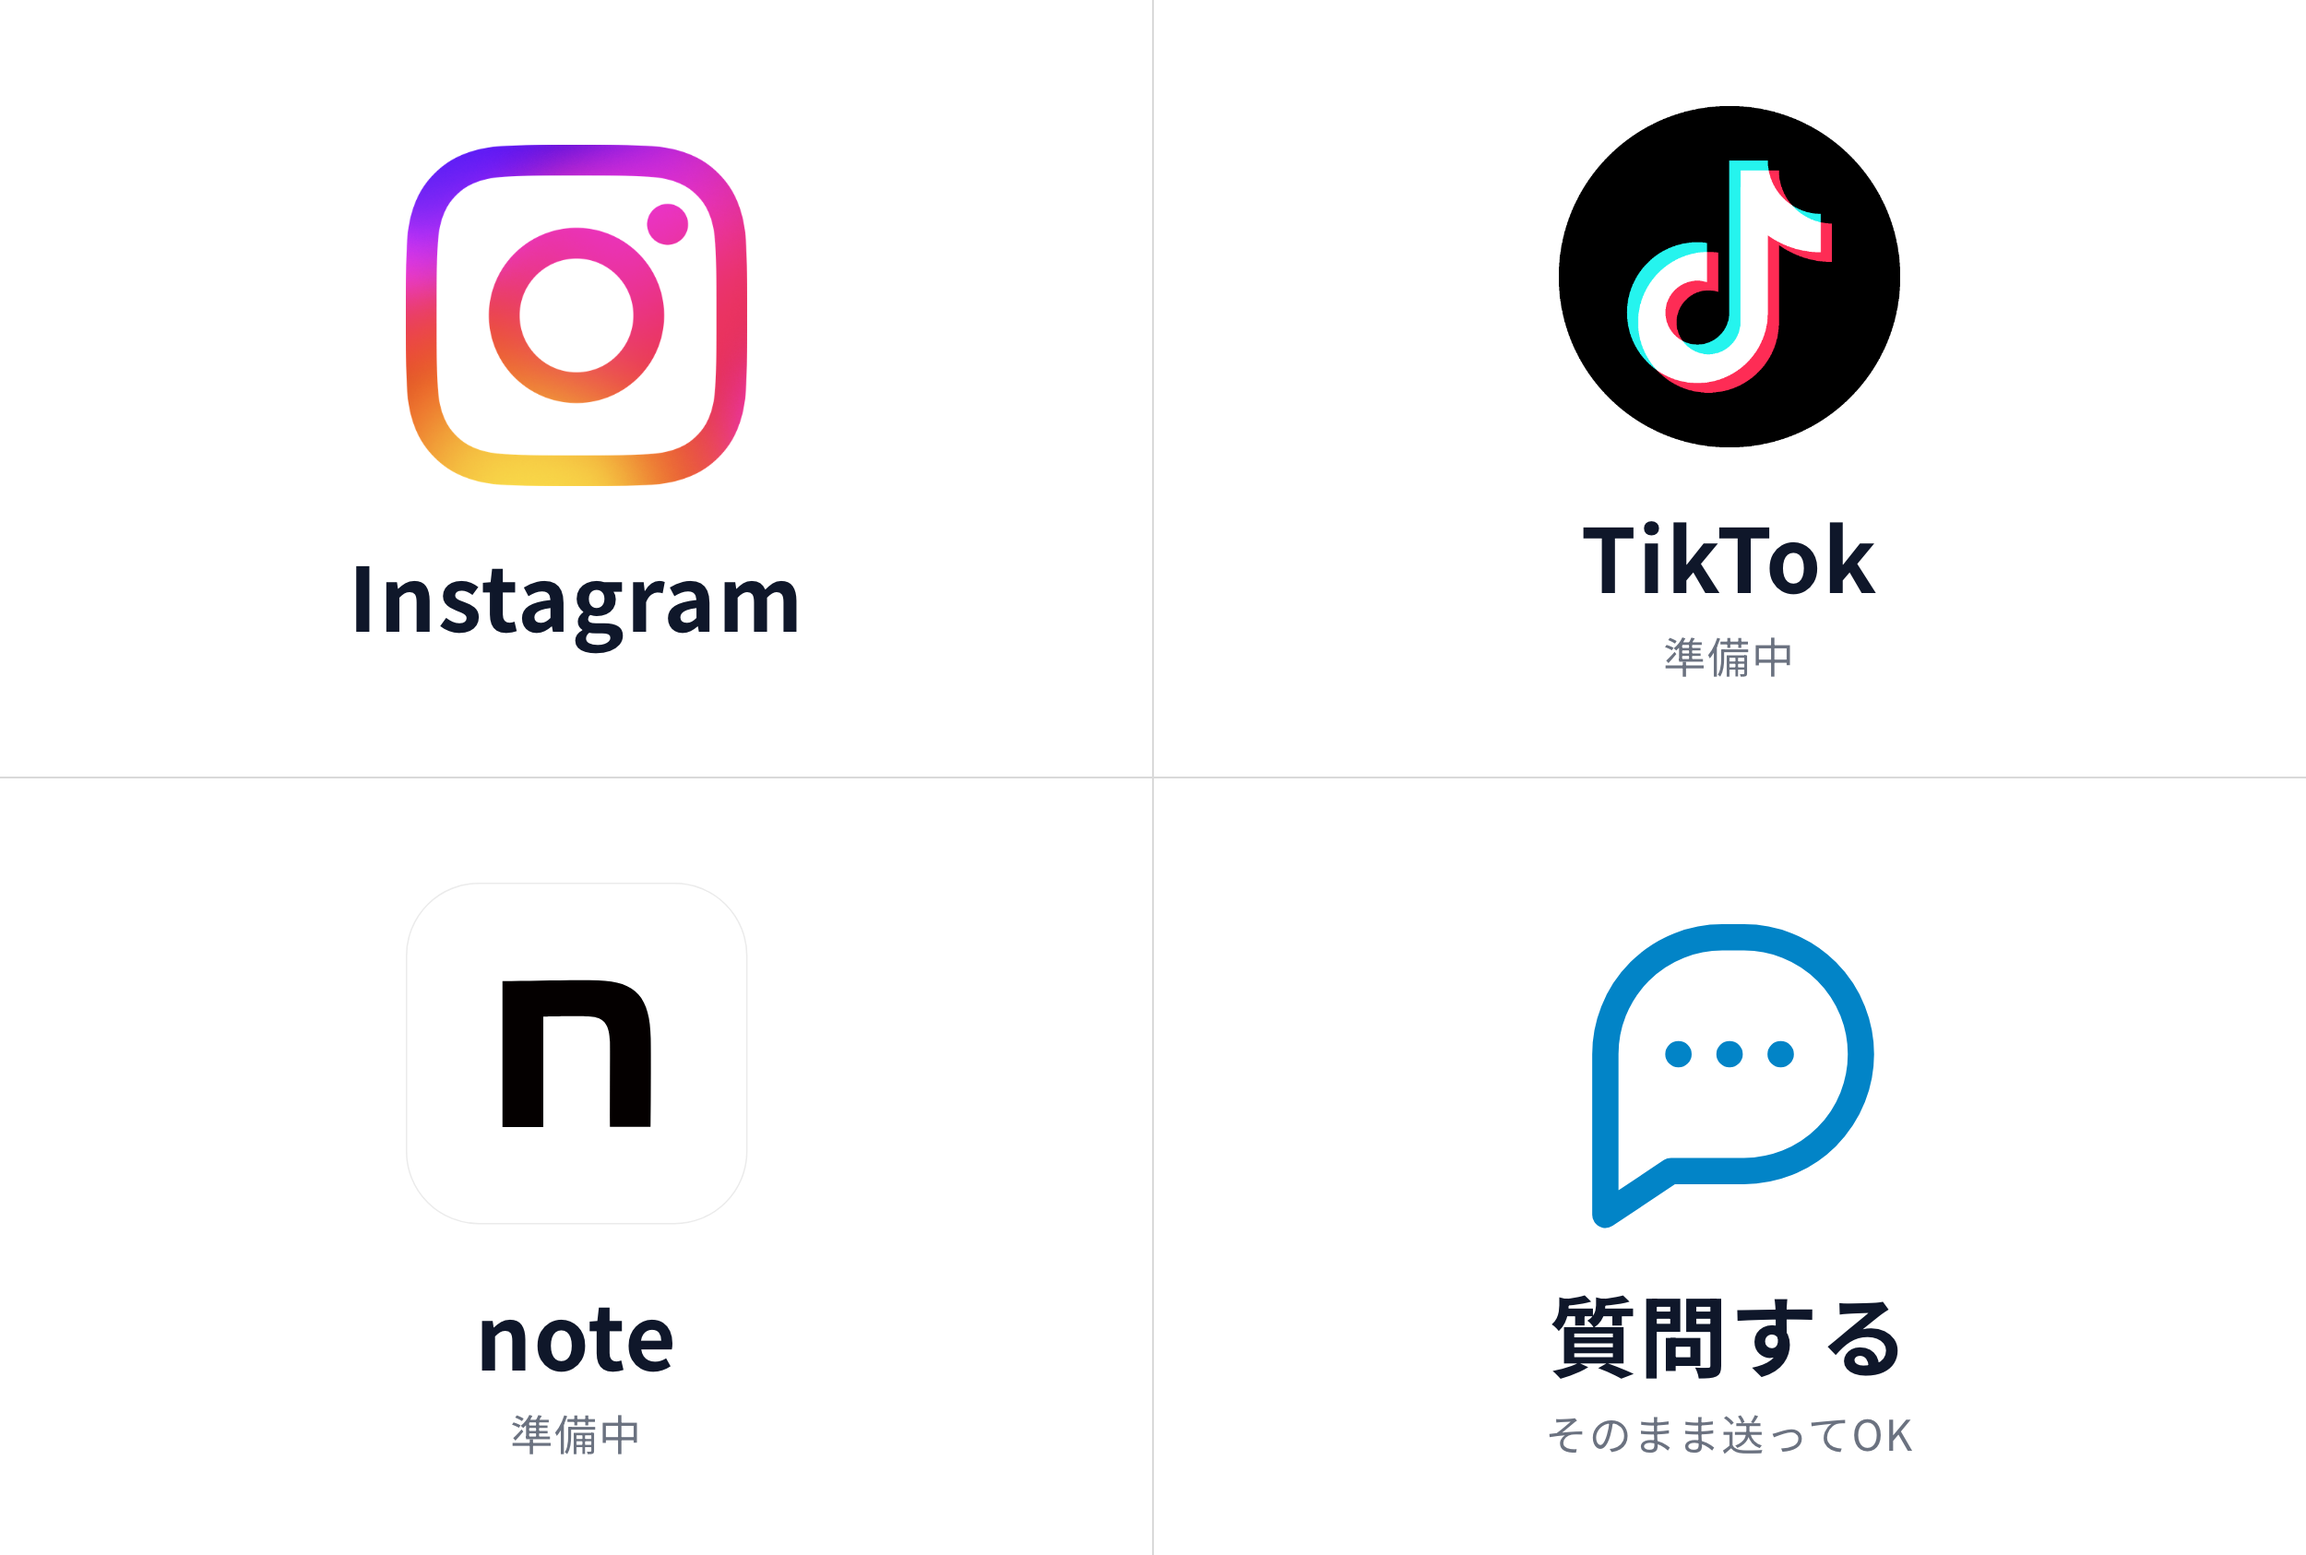
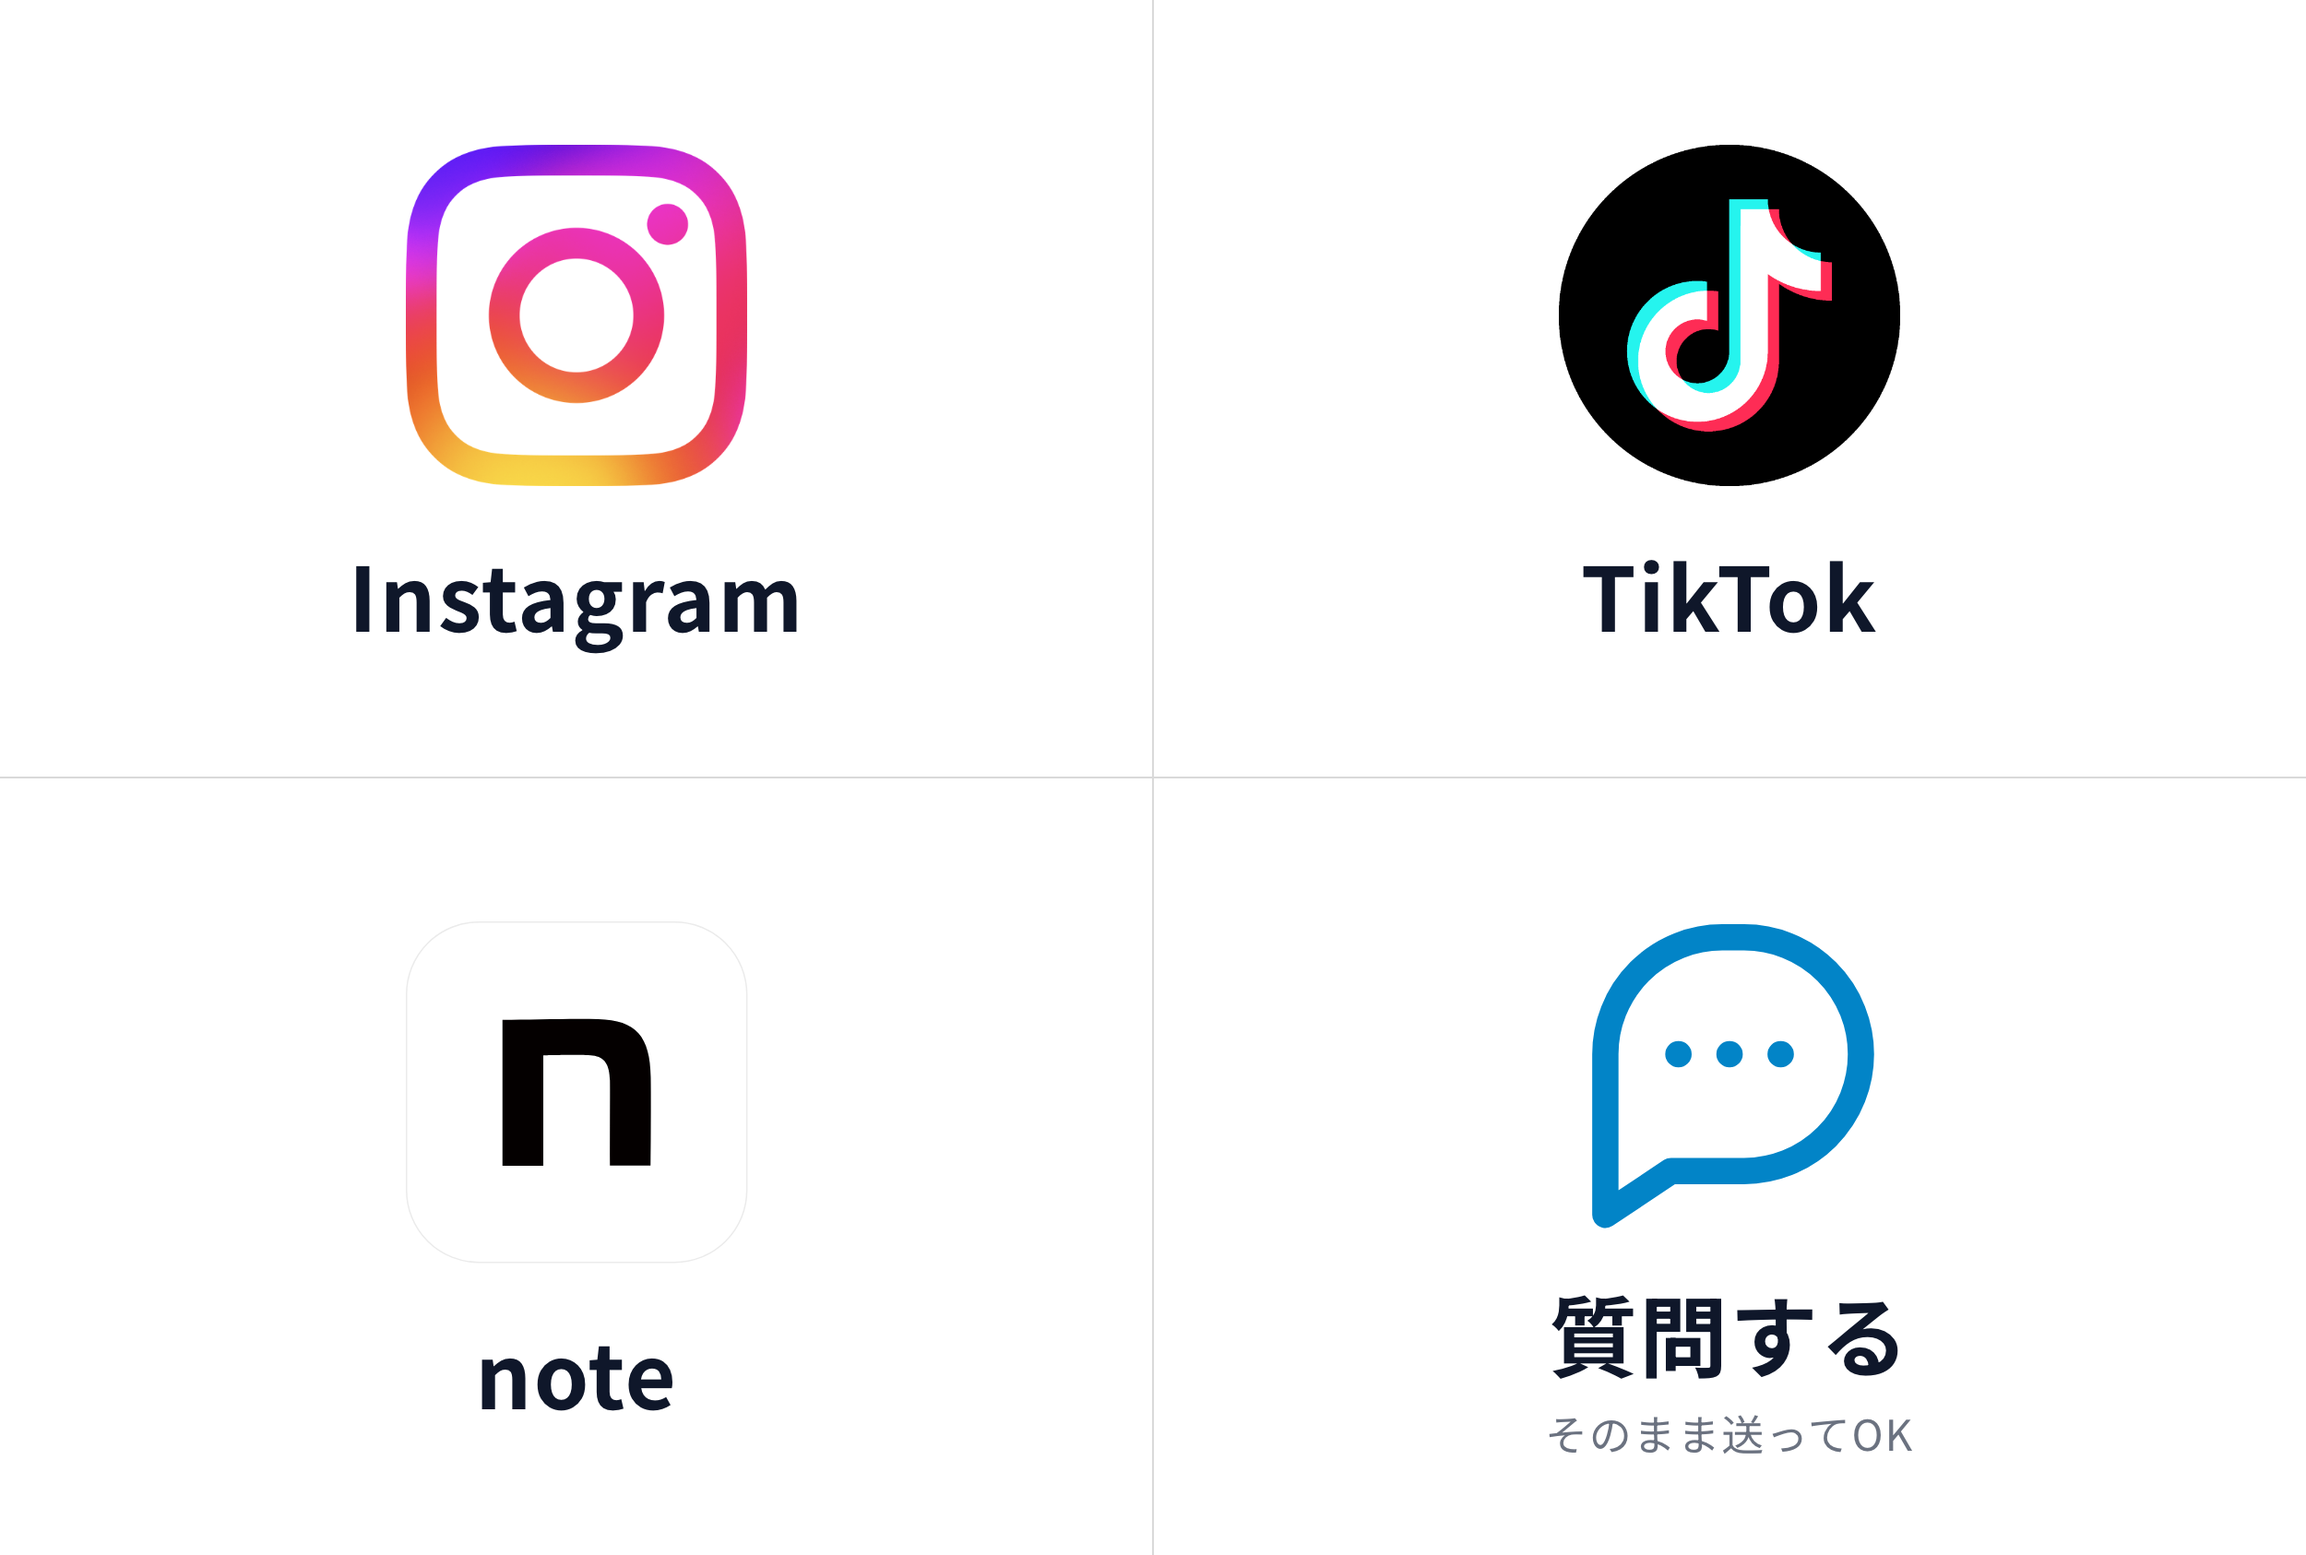
リッチメニューの TikTok / note の「準備中」を削除し、README の動作をリンクに更新

diff --git a/richmenu/index.html b/richmenu/index.html
@@ -66,14 +66,12 @@
   <div class="cell">
     <div class="logo"><img class="tt" src="logos/TikTok_Icon_Black_Circle.png" alt="TikTok"></div>
     <div class="label">TikTok</div>
-    <div class="sub">準備中</div>
   </div>
 
   <!-- 3 左下: note（公式の角丸「n」アイコン・note Visual Identity の app/icon.svg） -->
   <div class="cell">
     <div class="logo"><img class="note" src="logos/note_icon.svg" alt="note"></div>
     <div class="label">note</div>
-    <div class="sub">準備中</div>
   </div>
 
   <!-- 4 右下: 質問する（吹き出しの線画・青） -->

diff --git a/richmenu/README.md b/richmenu/README.md
@@ -31,14 +31,12 @@ iCloud のコピー先：`Cursor/インスタ投稿/LINEリッチメニュー_25
 | 領域 | 表示 | x | y | 幅 | 高さ | アクション | 設定する値 |
 |---|---|---|---|---|---|---|---|
 | 1（左上） | Instagram | 0 | 0 | 1250 | 843 | リンク | https://www.instagram.com/ai_jvhiro/ |
-| 2（右上） | TikTok／準備中 | 1250 | 0 | 1250 | 843 | テキスト（当面） | TikTokは準備中です |
-| 3（左下） | note／準備中 | 0 | 843 | 1250 | 843 | テキスト（当面） | noteは準備中です |
+| 2（右上） | TikTok | 1250 | 0 | 1250 | 843 | リンク | https://www.tiktok.com/@ai_jvhiro |
+| 3（左下） | note | 0 | 843 | 1250 | 843 | リンク | https://note.com/ai_jvhiro |
 | 4（右下） | 質問する／そのまま送ってOK | 1250 | 843 | 1250 | 843 | テキスト | 質問があります |
 
-- 領域 2・3 は、TikTok / note の URL が決まったら「リンク」に差し替える。画像の「準備中」の文字も
-  `index.html` から消して `zsh richmenu/build.sh` で再生成し、画像を上げ直す
 - 「テキスト」は、タップした人のトーク画面にその文が送信されるアクション。応答メッセージ（キーワード応答）で
-  「質問があります」「TikTokは準備中です」「noteは準備中です」への返事を用意しておくと自然
+  「質問があります」への返事を用意しておくと自然
 
 ## ロゴの取得元（公式ブランド素材）
 
@@ -62,8 +60,8 @@ iCloud のコピー先：`Cursor/インスタ投稿/LINEリッチメニュー_25
 4. コンテンツ設定：「テンプレートを選択」→ 大サイズの「2×2（4分割）」を選ぶ
 5. 「画像をアップロード」→ `richmenu-2500x1686.png` を選ぶ
 6. 領域 A〜D に、上の表の 1〜4 の順で「アクション」を設定する（A=左上、B=右上、C=左下、D=右下）
-   - 1 は「リンク」を選んで URL を貼る
-   - 2・3・4 は「テキスト」を選んで、表の文をそのまま入力する
+   - 1・2・3 は「リンク」を選んで URL を貼る
+   - 4 は「テキスト」を選んで「質問があります」と入力する
 7. 「保存」→ 一覧で「公開」にする
 8. 自分のスマホの LINE でトーク画面を開き、4つのボタンがそれぞれ正しく動くことを確認する
 
